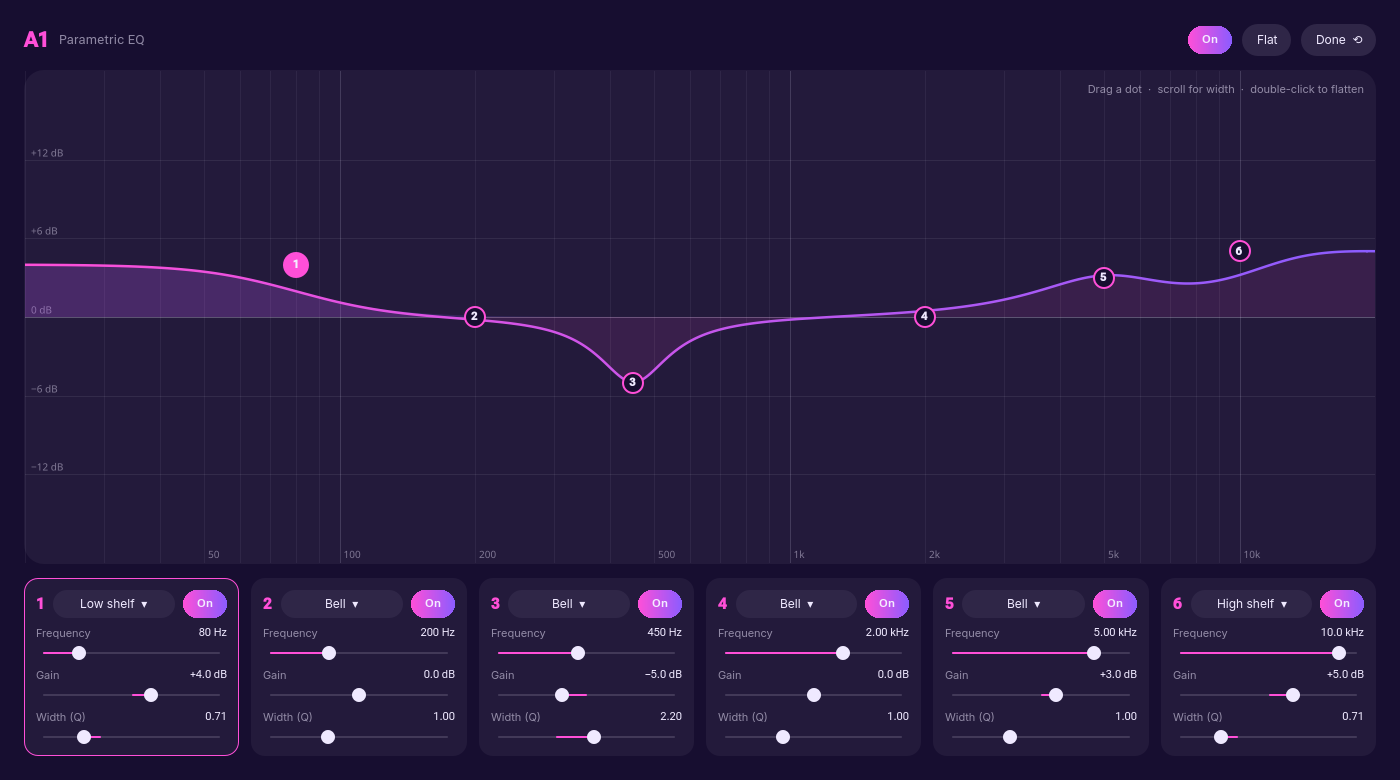
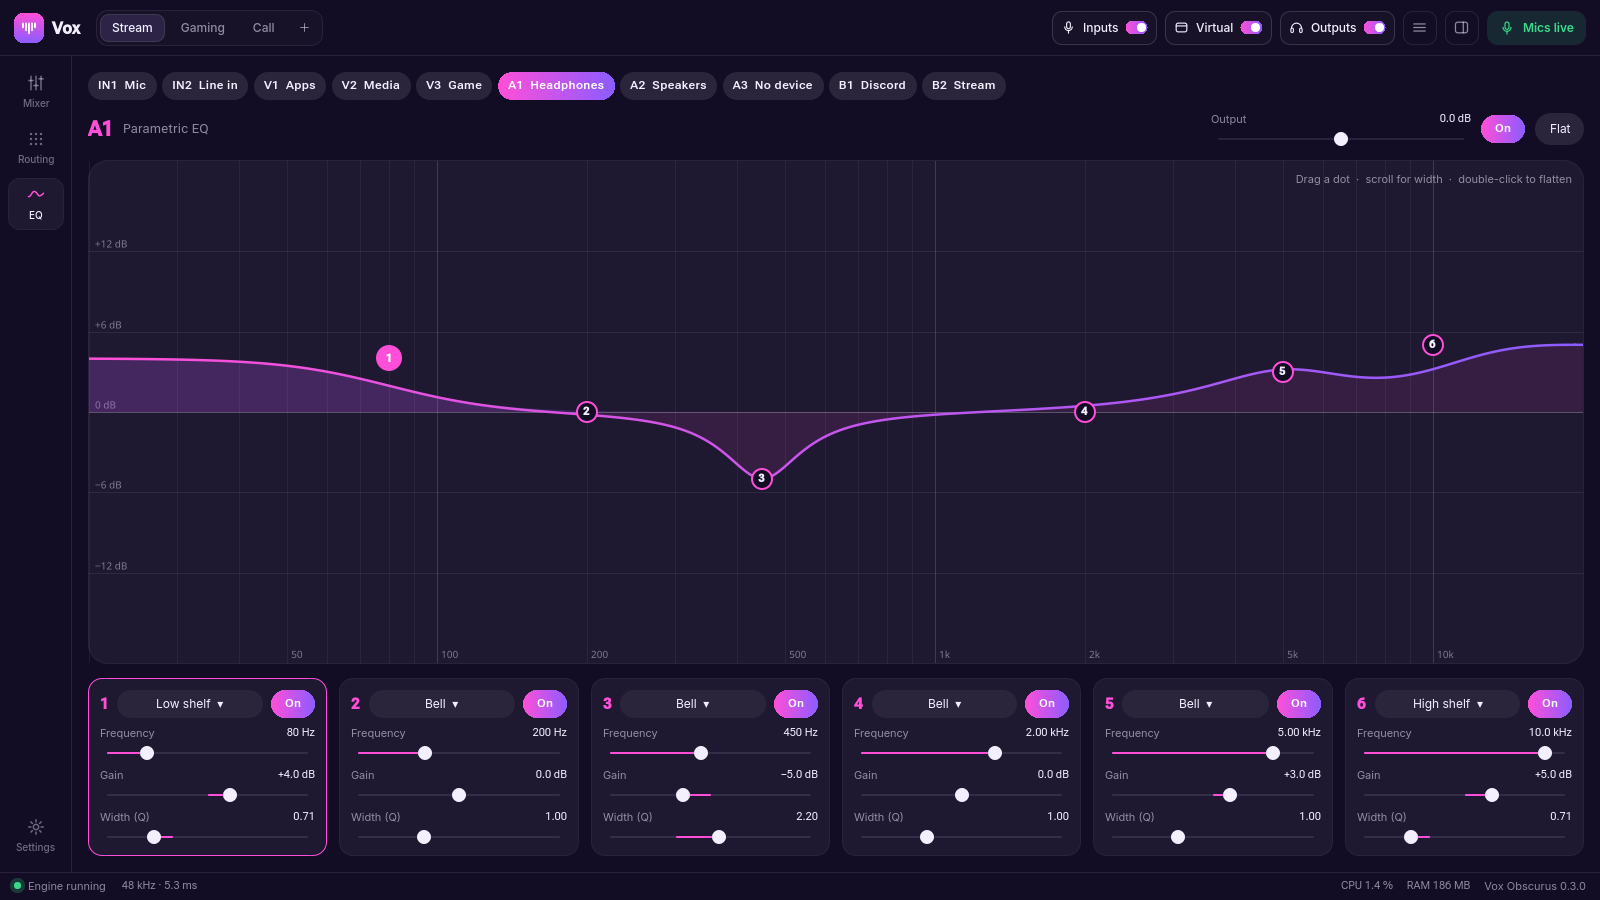
README and screenshots for the redesign; drop inspector notes

diff --git a/qml/Inspector.qml b/qml/Inspector.qml
@@ -214,7 +214,6 @@ Rectangle {
                     visible: insp.hardwareIn
                     app: insp.app
                     title: "Noise gate"
-                    note: "Silences the mic between words"
                     switchable: true
                     on: !!insp.ch.gate_on
                     onToggled: insp.set(s => s.gate_on = !s.gate_on)
@@ -278,7 +277,6 @@ Rectangle {
                     visible: insp.hardwareIn
                     app: insp.app
                     title: "Auto-duck"
-                    note: "Lowers the virtual inputs while you talk"
                     switchable: true
                     on: !!insp.ch.duck_on
                     onToggled: insp.set(s => s.duck_on = !s.duck_on)
@@ -325,7 +323,6 @@ Rectangle {
                     visible: insp.virtualIn
                     app: insp.app
                     title: "Playing here"
-                    note: "Drag a program onto a strip to move it"
                     StreamList {
                         Layout.fillWidth: true
                         Layout.preferredHeight: Math.max(1, Math.min(6, insp.playing.length)) * 40 - 6
@@ -404,7 +401,6 @@ Rectangle {
                     visible: !insp.isBus
                     app: insp.app
                     title: "Compressor"
-                    note: "Turns loud parts down so the level stays even"
                     switchable: true
                     on: !!insp.ch.comp_on
                     onToggled: insp.set(s => s.comp_on = !s.comp_on)
@@ -459,7 +455,6 @@ Rectangle {
                     visible: insp.isBus
                     app: insp.app
                     title: "Limiter"
-                    note: "Never lets this output go over the ceiling"
                     switchable: true
                     on: !!insp.ch.limiter_on
                     onToggled: insp.set(b => b.limiter_on = !b.limiter_on)
@@ -479,7 +474,6 @@ Rectangle {
                     visible: insp.app.pro
                     app: insp.app
                     title: "Plugins"
-                    note: insp.plugins.length === 0 ? "LV2, CLAP and VST3 effects" : insp.plugins.length + (insp.plugins.length === 1 ? " plugin" : " plugins") + ", in order"
                     switchable: insp.plugins.length > 0
                     on: insp.plugins.length === 0 || insp.ch.fx_on !== false
                     onToggled: insp.set(c => c.fx_on = c.fx_on === false)
@@ -521,7 +515,7 @@ Rectangle {
                     app: insp.app
                     title: "Record"
                     note: rec ? "Recording " + insp.app.elapsed(insp.app.clock - (insp.app.recordingSince[insp.ch.label] || insp.app.clock))
-                              : "Saves what this output carries to " + insp.app.recordFolder + " as " + (insp.app.cfg.record_format || "flac").toUpperCase()
+                              : insp.app.recordFolder + " · " + (insp.app.cfg.record_format || "flac").toUpperCase()
                     switchable: true
                     on: rec
                     onToggled: insp.app.recordBus(insp.slot, !rec)
@@ -532,7 +526,6 @@ Rectangle {
                     visible: !insp.isBus
                     app: insp.app
                     title: "Routing"
-                    note: "Where this input goes"
                     GridLayout {
                         Layout.fillWidth: true
                         columns: Math.min(5, Math.max(1, insp.app.aIdx.length + insp.app.bIdx.length))

diff --git a/qml/Main.qml b/qml/Main.qml
@@ -375,7 +375,8 @@ ApplicationWindow {
 
     // ---- Recording: one entry per output, the file being written, "!reason" if it failed, "" when idle ----
     property var recording: []
-    property string recordingJson: "[]"
+    property string recordingJson: ""
+    property bool recordingPolled: false
     // When each output's recording started (ms), by label, for the timer in the status bar.
     property var recordingSince: ({})
     function isRecording(bus) { return !!recording[bus] && recording[bus][0] !== "!"; }
@@ -389,12 +390,15 @@ ApplicationWindow {
         const before = recording, since = Object.assign({}, recordingSince);
         recordingJson = rec;
         recording = JSON.parse(rec);
+        // The first look only learns the state; messages are for changes after that.
+        const quiet = !recordingPolled;
+        recordingPolled = true;
         for (let i = 0; i < recording.length; i++) {
             const label = (cfg.buses[i] || blank).label;
             const now = recording[i] || "", was = before[i] || "";
             if (now !== "" && now[0] !== "!") { if (!since[label]) since[label] = Date.now(); }
             else delete since[label];
-            if (now === was) continue;
+            if (now === was || quiet) continue;
             if (now[0] === "!") flash("Can't record " + label + ": " + now.slice(1));
             else if (now !== "" && was === "") flash("Recording " + label + " to " + now);
             else if (now === "" && was !== "" && was[0] !== "!") flash("Saved the " + label + " recording in " + recordFolder);

diff --git a/README.md b/README.md
@@ -4,89 +4,96 @@ A small audio mixer and router for Linux (PipeWire), in the spirit of Voicemeete
 cut down to the parts that matter for everyday voice and streaming. Rust + PipeWire for the
 audio, Qt Quick for the interface. Not affiliated with VB-Audio.
 
-![Vox Obscurus in the default theme](docs/screenshots/default.png)
+Want more channels and plugins? See [Vox Pro](https://github.com/Obscuratea/vox-pro).
 
-Every strip flips over: mic strips to their voice tools, Apps and Media to the programs using them.
-The gear at the bottom right flips the other side over to the settings and themes.
+![Vox Obscurus](docs/screenshots/mixer.png)
 
-| Voice tools (back of a mic strip) | Settings, themes and background |
+Click a strip to open its inspector on the right: its device, voice tools, EQ, compressor or limiter,
+and where it goes.
+
+| An input | An output, recording |
 | --- | --- |
-| ![Voice tools](docs/screenshots/default-voice.png) | ![Settings](docs/screenshots/default-settings.png) |
+| ![Inspector on the mic](docs/screenshots/inspector.png) | ![Inspector on a virtual mic](docs/screenshots/output.png) |
 
-Pick any picture as the window background (Settings → Background): the boxes frost over it and the
-bars take their colours from it.
-
-![Vox Obscurus with a background picture](docs/screenshots/background.png)
-
-| Lavender (soft, dark) | Lavender Light (soft, light) |
+| Parametric EQ | Routing |
 | --- | --- |
-| ![Lavender theme](docs/screenshots/lavender.png) | ![Lavender Light theme](docs/screenshots/lavender-light.png) |
+| ![Parametric EQ](docs/screenshots/eq.png) | ![Routing](docs/screenshots/routing.png) |
 
-| Crystal (outlined, dark) | Mint (sharp, dark) |
+![Settings](docs/screenshots/settings.png)
+
+Four themes: **Night** (above), **Glass** (see-through, blurred by KWin), **Light** and **Gold**, or any
+picture as the window background.
+
+| Gold | Light |
 | --- | --- |
-| ![Crystal theme](docs/screenshots/crystal.png) | ![Mint theme](docs/screenshots/mint.png) |
-
-**Pure Black** is for OLED screens: a true black window, every box drawn as a thin outline, and a grey
-gradient instead of colour. **Follow system** keeps the default look but takes its colours from your
-Plasma colour scheme and follows accent changes live.
-
-![Pure Black theme](docs/screenshots/pureblack.png)
-
-![Parametric EQ on an output](docs/screenshots/eq.png)
+| ![Gold theme](docs/screenshots/gold.png) | ![Light theme](docs/screenshots/light.png) |
 
 (Screenshots use made-up programs and levels.)
 
 ## How it works
 
-- **Inputs (strips):** two hardware inputs (a mic, a line-in, anything PipeWire lists) and an
-  **Apps** strip and a **Media** strip. Apps is a virtual output device called *Vox Obscurus
-  Apps*: make it the system output (button at the bottom right) and every program plays through the
-  mixer. Media is a second one, *Vox Obscurus Media*: in the volume applet's Applications tab,
-  set a program's output to it to give that program its own strip (music, say). Voice tools
-  (gate, bass, brightness, pitch) live on the mic strips.
-- **A outputs (A1–A3):** what you listen on. Pick a device for each, like headphones or speakers.
-- **B outputs (B1, B2):** virtual microphones, listed as *Vox Obscurus B1 (Mic)* and *B2 (Mic)*.
-  Pick one as the microphone in Discord, OBS, or any other program.
-- On each strip, light up **A** buttons to hear it and **B** buttons to send it into a mic.
-- Mic strips have a **noise gate** (the threshold slider sets the level it opens at), **bass**,
-  **brightness** and **pitch**. With pitch on, **Hear my natural voice** lets your A outputs play
-  you without the pitch delay while the B mics still carry the pitched voice.
-- **Duck Apps & Media** (back of a mic strip): while you talk, Apps and Media dip by an amount you
-  set, on the B mics and optionally on A, and come back a moment after you stop.
-- Each strip has **Solo**: while any strip is soloed, A1–A3 play only the soloed strips. The B mics
-  are never affected, and solo isn't saved.
-- Every output has a **parametric EQ** (the EQ button on A1–A3, B1 and B2): six cells, each a bell,
-  shelf, pass filter or notch with its own frequency, gain and width. Drag the dots on the curve, or
-  set exact values underneath. Use it to tame a boomy room, brighten a dull headset, or shape what
-  your viewers hear.
+- **Inputs:** hardware inputs (a mic, a line-in, anything PipeWire lists) and **virtual inputs** that
+  programs play into. Each virtual input is a device called *Vox Obscurus Apps*, *Vox Obscurus Media* and
+  so on: make one the system output and every program plays through the mixer, or send single programs to
+  their own strip.
+- **A outputs:** what you listen on. Pick a device for each, like headphones or speakers.
+- **B outputs:** virtual microphones, listed as *Vox Obscurus B1 (Mic)* and so on. Pick one as the
+  microphone in Discord, OBS or any other program.
+- **Add or remove channels** with the **+** in each section header or in Settings → Layout (up to 5
+  hardware inputs, 6 virtual inputs, 5 A outputs and 3 B outputs). Name any channel; its A1 / B1 tag stays.
+- On each input, light up **A** buttons to hear it and **B** buttons to send it into a mic, or use the
+  **Routing** page for every input and output at once.
+- **Voice tools** on hardware inputs: noise gate, bass, brightness and pitch. With pitch on, **Hear my
+  natural voice** lets the A outputs play you without the pitch delay while the B mics still carry it.
+- **Auto-duck:** while you talk, the virtual inputs dip by an amount you set, on the B mics and
+  optionally on A.
+- **Parametric EQ** on every input and output: six cells, each a bell, shelf, pass filter or notch.
+  Drag the dots on the curve or set exact values.
+- **Compressor** on every input, **limiter** on every output.
+- **Recording:** the red dot on an output records exactly what it carries, as FLAC, WAV or Opus, to
+  `~/Music/Vox Obscurus` or a folder you pick.
+- **Solo** on each input: while any input is soloed, the A outputs play only the soloed ones. The B mics
+  are never affected.
 - Meters show a **peak-hold** tick and a **clip light** that stays lit until you click the meter.
-- The Apps strip warns you if voice chat is playing through it and also going to a mic.
+- **Show or hide** hardware inputs, virtual inputs and outputs from the top bar. A narrow window slims the
+  strips down; a very small one lists the channels as rows.
 
 ### Programs
 
-Flip Apps or Media to see the programs using it, each with its own mute. **Drag a program onto the
-Apps or Media strip** to send it there. Programs playing straight to hardware show under
+Open a virtual input's inspector to see the programs using it, each with its own mute. **Drag a program
+onto a virtual input** to send it there. Programs playing straight to hardware show under
 "Playing elsewhere" so you can pull them in.
 
 ### Scenes
 
-Settings → Scenes saves every strip and bus as they are (devices, routes, levels, voice tools)
-under a name. The first five show as buttons above the inputs, and all of them are in the tray
-menu. Loading one leaves your theme and background alone.
+A scene saves every channel as it is (devices, routes, levels, voice tools). Scenes sit in the top bar
+(**+** to save one), in Settings → Scenes and in the tray menu. Loading one leaves your theme alone.
+**Restore the last scene** (Settings → Behaviour) loads the last one at start.
 
-### Tray and shortcuts
+### Tray, shortcuts and start-up
 
-- **Tray icon:** show or hide the window, mute the mics, switch scenes, quit. Turn on *Keep running
-  in the tray* (Settings → Behaviour) and closing the window leaves the mixer running.
-- **Push to talk:** while it's on, your mic strips only reach B1 and B2 while its key is held. You
-  still hear yourself on A, and Apps and Media are never gated.
-- **Mute microphones:** one key mutes or unmutes B1 and B2.
-- Both keys are yours to choose (Settings → Shortcuts: click the box and press the keys you want).
-  They are global shortcuts handled by KDE's shortcut service, so they work while another program
-  has focus, also show up in System Settings → Shortcuts, and need KDE Plasma.
+- **Tray icon:** show or hide the window, mute the mics, switch scenes, quit. With *Keep running in the
+  tray* on, closing the window leaves the mixer running. The icon turns into a red dot while something
+  records.
+- **Global shortcuts** (Settings → Shortcuts): **push to talk** (the mic inputs only reach the B mics while
+  the key is held), **mute all mics**, **next scene** and **show or hide Vox**. They go through KDE's
+  shortcut service, so they work while a game has focus and need KDE Plasma.
+- **Start with the computer** and **Start hidden** (Settings → Behaviour).
+- **Mute mics when the screen locks**; they come back when you unlock.
+- **Sample rate** (44.1, 48 or 96 kHz) and **latency** (Settings → Audio) are asked of PipeWire, never
+  forced on other programs, and used from the next start.
 
 Feedback loops can't be wired from the UI: the virtual devices never appear as inputs or
 A outputs, and all of the mixer's own streams share a PipeWire link group.
+
+## Install
+
+Releases ship an Arch package. Download `vox-obscurus-*-x86_64.pkg.tar.zst` from the
+[Releases page](https://github.com/Obscuratea/vox-obscurus/releases) and install it:
+
+    sudo pacman -U vox-obscurus-*-x86_64.pkg.tar.zst
+
+After that, updates come from inside the app (Settings → About).
 
 ## Support development
 
@@ -105,12 +112,14 @@ not taking code contributions, but every report and suggestion is read.
 
 Free to download and use, including commercially (a streamer or VTuber using it for audio
 routing is exactly what it's for). Not open source: you can't modify it, redistribute it, publish
-forks or derived versions, or sell it. See [LICENSE](LICENSE).
+forks or derived versions, or sell it. See [LICENSE](LICENSE). Credits and third-party licences (Qt and
+SoundTouch are LGPL, used as system libraries) are in Settings → About and in
+[THIRD_PARTY.txt](THIRD_PARTY.txt).
 
 ## Build and run
 
-Needs Rust, Qt 6 (base, declarative, and Widgets for the tray icon), PipeWire development files,
-SoundTouch and clang.
+Needs Rust, clang, cmake, Qt 6 (base, declarative, and Widgets for the tray icon), KWindowSystem,
+PipeWire development files and SoundTouch.
 
     cargo run --release
 
@@ -125,14 +134,19 @@ Vox opens its stream again by itself when the device returns.
 - Qt sends its log to the systemd journal when it isn't attached to a terminal. Run with
   `QT_FORCE_STDERR_LOGGING=1` to see QML errors in the terminal.
 - `vox-obscurus --screenshot out.png` saves an image of the window after two seconds and quits.
+- Every QML file except `qml/Main.qml`, and the shared Rust files (`dsp.rs`, `peq.rs`, `recorder.rs`,
+  `shortcuts.rs`, `desktop.rs`), are the same in Vox Pro.
 
 ## Layout
 
-- `src/engine.rs`: PipeWire streams, virtual devices, mixing and routing (runs on its own thread)
-- `src/dsp.rs`: noise gate, shelf filters and the pitch stage (SoundTouch)
-- `src/peq.rs`: the parametric EQ on the outputs
-- `src/settings.rs`: the saved layout and scenes
+- `src/engine.rs`: PipeWire streams, virtual devices, mixing, routing and limiters (runs on its own thread)
+- `src/dsp.rs`: noise gate, shelf filters, compressor and the pitch stage (SoundTouch)
+- `src/peq.rs`: the parametric EQ
+- `src/recorder.rs`: WAV, FLAC and Opus writers
+- `src/settings.rs`: the saved layout, scenes and preferences
 - `src/shortcuts.rs`: global shortcuts through KDE's KGlobalAccel (D-Bus)
+- `src/desktop.rs`: start with the computer, and the screen-lock watch
+- `src/updater.rs`: the in-app updater
 - `src/bridge.rs`: the `Mixer` object QML talks to (JSON in, JSON out)
-- `src/qt_shim.cpp`: creates the `QApplication` the tray icon needs
+- `src/qt_shim.cpp`: creates the `QApplication` the tray icon needs, and the glass blur
 - `qml/`: the interface
